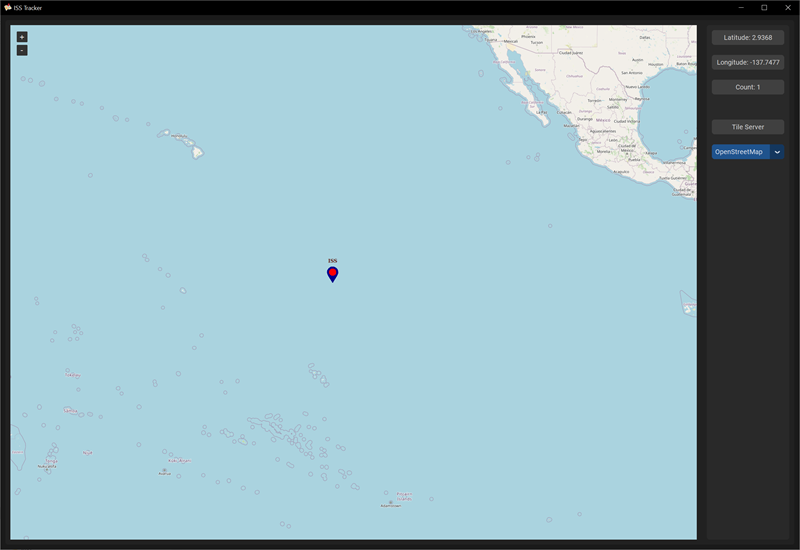
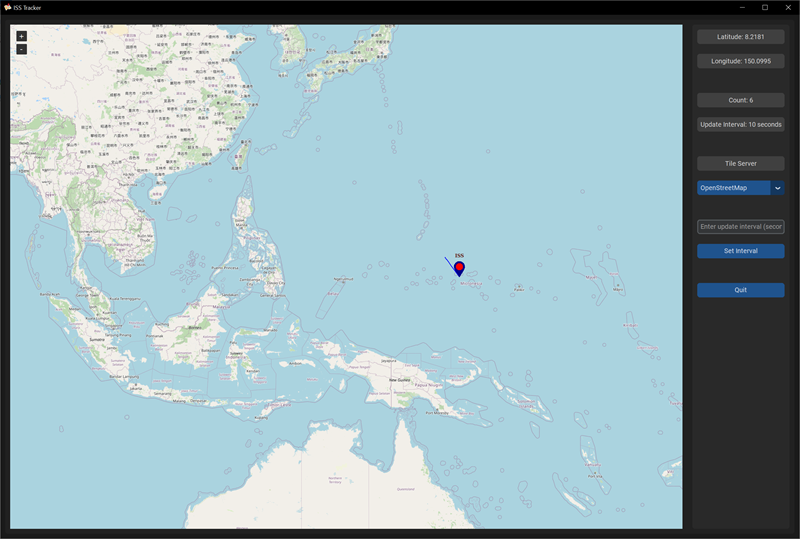
Update Line between locations change update interval

diff --git a/iss_tracker.py b/iss_tracker.py
@@ -4,6 +4,7 @@
     Created: 11/09/2024
     Description: Track the International Space Station (ISS) using Tkinter
     and TkinterMapView
+    Claude.ai used as a code helper
 """
 # https://github.com/TomSchimansky/TkinterMapView
 # pip install tkintermapview
@@ -64,6 +65,9 @@ class ISSTracker:
         self.update_thread = None
         self.count = 0
 
+        # Track previous positions for drawing lines
+        self.previous_positions = []
+
         self.marker = None
         self.get_iss_position()
 
@@ -77,7 +81,6 @@ class ISSTracker:
     def initialize_marker(self):
         """Create the initial ISS marker with the current ISS position."""
         try:
-
             # Create marker with red color
             self.marker = self.map.set_marker(
                 self.latitude,
@@ -86,6 +89,8 @@ class ISSTracker:
                 marker_color_circle="red",
                 marker_color_outside="darkblue"
             )
+            # Add initial position to previous positions
+            self.previous_positions.append((self.latitude, self.longitude))
 
         except Exception as e:
             print(f"Error initializing marker: {e}")
@@ -97,6 +102,7 @@ class ISSTracker:
                 marker_color_circle="red",
                 marker_color_outside="darkblue"
             )
+            self.previous_positions.append((0, 0))
 
 # ------------------------- GET ISS POSITION ---------------------------- #
     def get_iss_position(self):
@@ -142,8 +148,22 @@ class ISSTracker:
     def update_marker_position(self):
         """Update the marker and map position in the GUI thread."""
         if self.marker:
+            # Draw line from previous position
+            if self.previous_positions:
+                last_pos = self.previous_positions[-1]
+                # Add a line to show the path
+                self.map.set_path(
+                    [last_pos, (self.latitude, self.longitude)],
+                    color="blue",
+                    width=2
+                )
+
+            # Update marker and map position
             self.marker.set_position(self.latitude, self.longitude)
             self.map.set_position(self.latitude, self.longitude)
+
+            # Add new position to tracking list
+            self.previous_positions.append((self.latitude, self.longitude))
 
         else:
             self.marker = self.map.set_marker(
@@ -153,6 +173,7 @@ class ISSTracker:
                 marker_color_circle="red",
                 marker_color_outside="red"
             )
+            self.previous_positions.append((self.latitude, self.longitude))
 
 # ------------------------- CHANGE MAP ----------------------------------- #
     def change_map(self, new_map: str):
@@ -173,6 +194,21 @@ class ISSTracker:
                 "https://mt0.google.com/vt/lyrs=s&hl=en&x={x}&y={y}&z={z}&s=Ga",
                 max_zoom=22
             )
+
+# ------------------------- CHANGE UPDATE INTERVAL ---------------------- #
+    def change_update_interval(self, new_interval: str):
+        """Change the update interval for ISS position tracking."""
+        try:
+            interval = int(new_interval)
+            if interval > 0:
+                self.update_interval = interval
+                self.lbl_interval.configure(
+                    text=f" Update Interval: {interval} seconds "
+                )
+            else:
+                raise ValueError("Interval must be a positive integer")
+        except ValueError:
+            print("Invalid update interval. Please enter a positive number.")
 
 # ------------------------- RUN ------------------------------------------ #
     def run(self):
@@ -237,6 +273,12 @@ class ISSTracker:
             corner_radius=6,
             fg_color=("gray85", "gray25")
         )
+        self.lbl_interval = ctk.CTkLabel(
+            self.status_frame,
+            text=f"Update Interval: {self.update_interval} seconds",
+            corner_radius=6,
+            fg_color=("gray85", "gray25")
+        )
         self.lbl_tile_server = ctk.CTkLabel(
             self.status_frame,
             text="Tile Server",
@@ -244,10 +286,30 @@ class ISSTracker:
             fg_color=("gray85", "gray25")
         )
 
+        # Create option menus
         self.map_option_menu = ctk.CTkOptionMenu(
             self.status_frame,
             values=["OpenStreetMap", "Google normal", "Google satellite"],
             command=self.change_map
+        )
+
+        # Add update interval input
+        self.interval_entry = ctk.CTkEntry(
+            self.status_frame,
+            placeholder_text="Enter update interval (seconds)"
+        )
+        self.interval_button = ctk.CTkButton(
+            self.status_frame,
+            text="Set Interval",
+            command=lambda: self.change_update_interval(
+                self.interval_entry.get()
+            )
+        )
+
+        self.btn_exit = ctk.CTkButton(
+            self.status_frame,
+            text="Quit",
+            command=lambda: self.quit
         )
 
         # Grid layout for status labels
@@ -257,15 +319,30 @@ class ISSTracker:
         self.lbl_lon.grid(
             row=1, column=0, padx=10, pady=10, sticky="ew"
         )
+
         self.lbl_count.grid(
-            row=2, column=0, padx=10, pady=10, sticky="ew"
+            row=2, column=0, padx=10, pady=(40, 10), sticky="ew"
+        )
+        self.lbl_interval.grid(
+            row=3, column=0, padx=10, pady=10, sticky="ew"
         )
 
         self.lbl_tile_server.grid(
-            row=3, column=0, padx=10, pady=(40, 10), sticky="ew"
+            row=4, column=0, padx=10, pady=(40, 10), sticky="ew"
         )
         self.map_option_menu.grid(
-            row=4, column=0, padx=10, pady=10, sticky="ew"
+            row=5, column=0, padx=10, pady=10, sticky="ew"
+        )
+
+        self.interval_entry.grid(
+            row=6, column=0, padx=10, pady=(40, 10), sticky="ew"
+        )
+        self.interval_button.grid(
+            row=7, column=0, padx=10, pady=10, sticky="ew"
+        )
+
+        self.btn_exit.grid(
+            row=8, column=0, padx=10, pady=(40, 10), sticky="ew"
         )
 
         for child in self.status_frame.winfo_children():

diff --git a/README.md b/README.md
@@ -9,6 +9,7 @@
 
 ## Changes
 
+- 11/18/2024: Added line between locations, added ability to change update interval
 - 11/09/2024: Initial commit
 
 ## License
